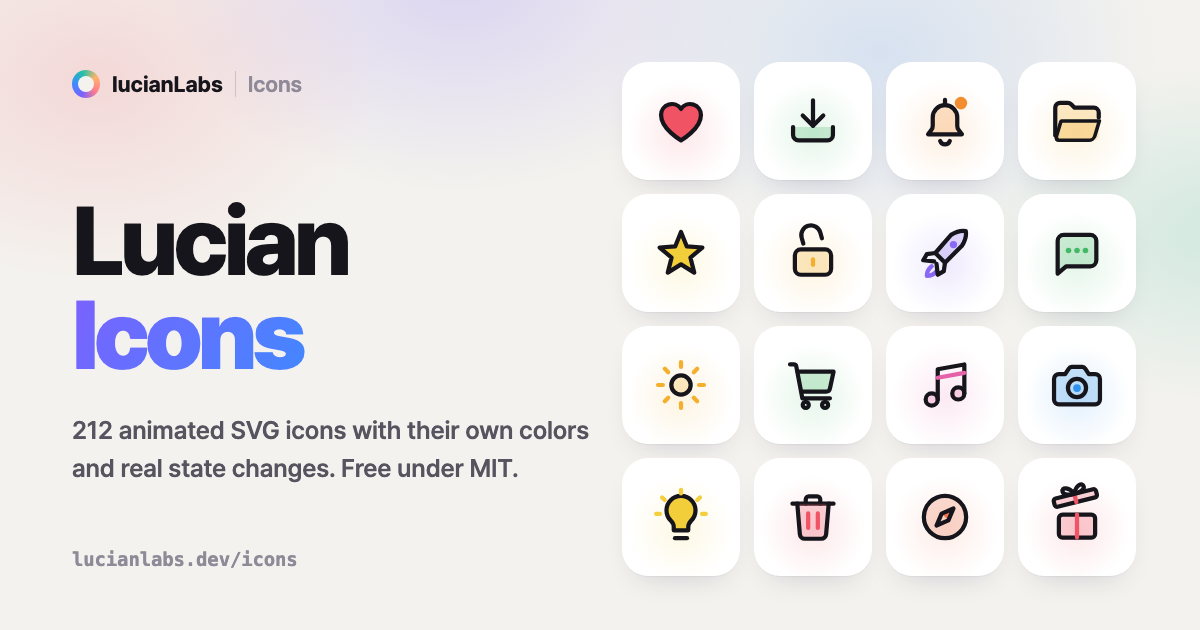
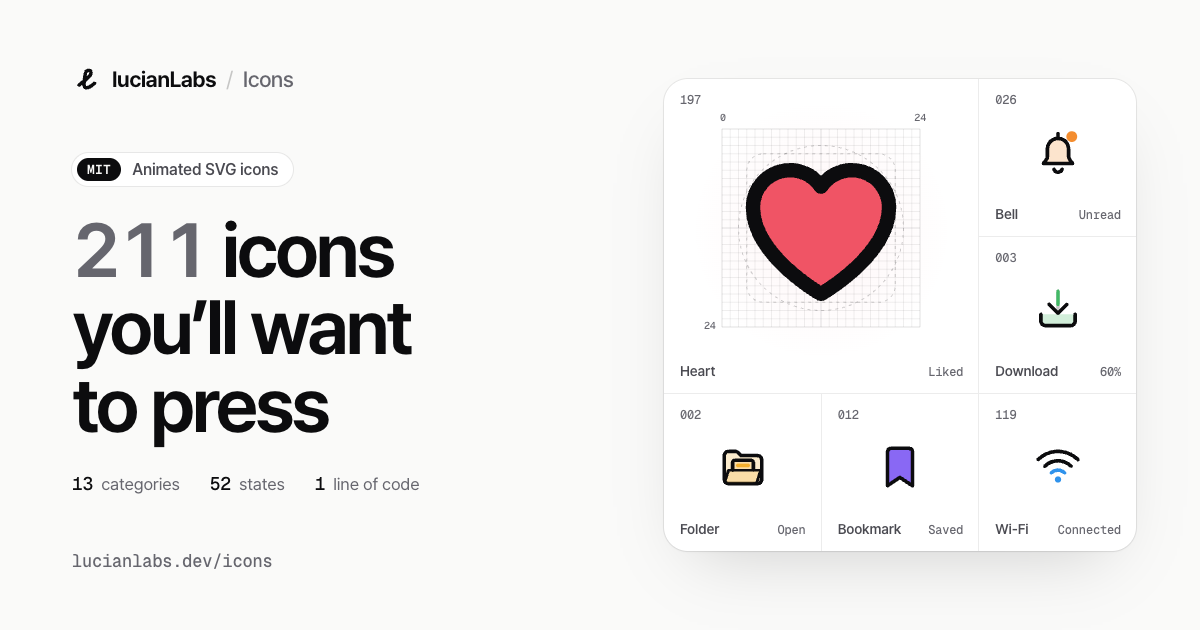
Redraw the share image in the new gallery style
og.png still showed the 2.0.0 look and said 212 icons. The new image
repeats the hero headline and counts beside a six-cell excerpt of the
specimen table, with the heart on the keyline grid. It carries no version
number, and both pages now point to og.png?v=<version> so link previews
refresh on each release. Icon code, runtime and the skill ZIP are unchanged.

diff --git a/web/index.html b/web/index.html
@@ -9,7 +9,7 @@
 <meta property="og:title" content="Lucian Icons">
 <meta property="og:description" content="{{ICON_COUNT}} original animated SVG icons with their own colors and real state changes. Free under MIT.">
 <meta property="og:type" content="website"><meta property="og:url" content="https://lucianlabs.dev/icons/">
-<meta property="og:image" content="https://lucianlabs.dev/icons/og.png"><meta name="twitter:card" content="summary_large_image">
+<meta property="og:image" content="https://lucianlabs.dev/icons/og.png?v={{VERSION}}"><meta name="twitter:card" content="summary_large_image">
 <link rel="icon" href="./favicon.svg" type="image/svg+xml">
 <link rel="preconnect" href="https://cdn.jsdelivr.net" crossorigin>
 <link rel="preconnect" href="https://fonts.googleapis.com">
@@ -53,7 +53,7 @@ r.setAttribute('lang',l);if(l==='en')r.classList.add('i18n-wait')})();
 
 <section class="g-hero" aria-labelledby="hero-t">
   <div class="g-hero-copy">
-    <p class="g-kick"><b>v{{VERSION}}</b><span data-i18n="heroKick">움직이는 SVG 아이콘 · MIT</span></p>
+    <p class="g-kick"><b>v{{VERSION}}</b><span class="g-free" data-i18n="heroFree">100% 무료</span><span data-i18n="heroKick">움직이는 SVG 아이콘 · MIT</span></p>
     <h1 class="g-hero-t" id="hero-t">눌러 보고 싶은<br>아이콘 {{ICON_COUNT}}개</h1>
     <p class="g-hero-s" data-i18n="intro">아이콘마다 어울리는 색과 진짜 상태 전환을 담았어요. 화면에 보이는 아이콘은 스스로 움직이고, 직접 눌러 볼 수도 있어요. 마음에 드는 아이콘은 코드 한 줄로 가져가세요.</p>
     <div class="g-install">

diff --git a/web/gallery.css b/web/gallery.css
@@ -95,6 +95,8 @@ a{color:inherit}
 .g-hero{max-width:var(--max);margin:0 auto;padding:36px var(--gut) 80px;display:grid;grid-template-columns:minmax(0,1fr) minmax(0,460px);gap:56px 88px;align-items:center}
 .g-kick{display:inline-flex;align-items:center;gap:10px;margin:0;padding:4px 12px 4px 4px;border-radius:999px;background:var(--surface);box-shadow:0 0 0 1px var(--line);font-size:13px;font-weight:550;color:var(--ink-2)}
 .g-kick b{padding:4px 8px;border-radius:999px;background:var(--ink);color:var(--page);font:600 11px/1 var(--mono);letter-spacing:.02em}
+.g-free{display:inline-flex;align-items:center;gap:10px;color:var(--ink);font-weight:680}
+.g-free::after{content:"";width:1px;height:12px;background:var(--line-2)}
 .g-hero-t{margin:26px 0 0;font-size:clamp(44px,5.4vw,78px);line-height:1.04;letter-spacing:-.052em;font-weight:640;word-break:keep-all;text-wrap:balance}
 .g-hero-t .g-num{color:var(--ink-3);font-variant-numeric:tabular-nums}
 .g-hero-s{max-width:480px;margin:22px 0 0;font-size:17px;line-height:1.62;color:var(--ink-2);word-break:keep-all;overflow-wrap:break-word}

diff --git a/web/i18n.js b/web/i18n.js
@@ -9,6 +9,7 @@ export const copy = {
     topNav: '도구',
     barLabel: '찾기와 보기',
     heroT: '눌러 보고 싶은<br>아이콘 {num}개',
+    heroFree: '100% 무료',
     heroKick: '움직이는 SVG 아이콘 · MIT',
     intro: '아이콘마다 어울리는 색과 진짜 상태 전환을 담았어요. 화면에 보이는 아이콘은 스스로 움직이고, 직접 눌러 볼 수도 있어요. 마음에 드는 아이콘은 코드 한 줄로 가져가세요.',
     specIcons: '아이콘',
@@ -124,6 +125,7 @@ export const copy = {
     topNav: 'Tools',
     barLabel: 'Find and view',
     heroT: '{num} icons<br>you’ll want to press',
+    heroFree: '100% free',
     heroKick: 'Animated SVG icons · MIT',
     intro: 'Each icon comes with its own color and real state changes. Icons in view move on their own, and you can press any of them yourself. Take the ones you like with a single line of code.',
     specIcons: 'Icons',

diff --git a/web/guide.html b/web/guide.html
@@ -8,7 +8,7 @@
 <link rel="canonical" href="https://lucianlabs.dev/icons/guide.html">
 <meta property="og:title" content="Lucian Icons API">
 <meta property="og:description" content="Install Lucian Icons v{{VERSION}} and wire {{ICON_COUNT}} animated icons to real application state.">
-<meta property="og:image" content="https://lucianlabs.dev/icons/og.png"><meta name="twitter:card" content="summary_large_image">
+<meta property="og:image" content="https://lucianlabs.dev/icons/og.png?v={{VERSION}}"><meta name="twitter:card" content="summary_large_image">
 <link rel="icon" href="./favicon.svg" type="image/svg+xml">
 <link rel="preconnect" href="https://cdn.jsdelivr.net" crossorigin>
 <link rel="stylesheet" href="https://cdn.jsdelivr.net/gh/orioncactus/pretendard@v1.3.9/dist/web/variable/pretendardvariable-dynamic-subset.min.css">

diff --git a/docs/design.md b/docs/design.md
@@ -8,6 +8,6 @@ Motion: parts are named with `data-part`. A state is a pose per part (rotate, tr
 
 States: only where they mirror real application state (on/off, unread, locked, progress, copied). Visual-only 1.x states such as pressed or raised became hover effects. 53 icons had states at 2.0.0; 52 after `eye` was removed in 2.0.4.
 
-Gallery (redesigned in 2.0.5): the page no longer borrows the uxui-prompt look (warm paper, glow tiles, gradient title, sliding pills). It is a quiet specimen sheet: an off-white page (`#FAFAF9`, `#09090A` in dark), one hairline table per category with five icons per row on desktop (four on tablets, three on phones), a floating glass toolbar, a 640-weight headline, and Geist Mono for numbers and code beside Pretendard. Its own motif is the 24-unit drawing grid with circle and square keylines, shown behind the large icon in the hero card, the inspector and the reels. The autoplay is unchanged from uxui-prompt on purpose: every icon at least half in view is demonstrated by a Mac-style cursor that glides in, triggers the effect, clicks through every state, leaves and repeats; hover changes nothing and keyboard focus takes over. The hero card cycles six featured icons (heart, bell, bulb, download, Wi-Fi, bookmark) with the same cursor. On screens 1180px and wider a click steps the icon and slides in an inspector beside the deck (the deck keeps five per row); on narrower screens a click opens the reel, where the icon grows out of its cell onto the grid. The inspector moves into a sheet over the reel and on small screens. The API guide shares the header, buttons and code blocks.
+Gallery (redesigned in 2.0.5): the page no longer borrows the uxui-prompt look (warm paper, glow tiles, gradient title, sliding pills). It is a quiet specimen sheet: an off-white page (`#FAFAF9`, `#09090A` in dark), one hairline table per category with five icons per row on desktop (four on tablets, three on phones), a floating glass toolbar, a 640-weight headline, and Geist Mono for numbers and code beside Pretendard. Its own motif is the 24-unit drawing grid with circle and square keylines, shown behind the large icon in the hero card, the inspector and the reels. The autoplay is unchanged from uxui-prompt on purpose: every icon at least half in view is demonstrated by a Mac-style cursor that glides in, triggers the effect, clicks through every state, leaves and repeats; hover changes nothing and keyboard focus takes over. The hero card cycles six featured icons (heart, bell, bulb, download, Wi-Fi, bookmark) with the same cursor. On screens 1180px and wider a click steps the icon and slides in an inspector beside the deck (the deck keeps five per row); on narrower screens a click opens the reel, where the icon grows out of its cell onto the grid. The inspector moves into a sheet over the reel and on small screens. The API guide shares the header, buttons and code blocks. The share image `og.png` (1200x630) repeats the hero headline and counts beside a six-cell excerpt of the specimen table, with the heart on the keyline grid; it has no version number, so redraw it only when the icon, category or state counts change. Its URL carries `?v=<version>` so link previews pick up a new image on each release.
 
 Distribution: `all.js`, per-icon ES modules with a shared runtime, JSON API, static SVG and standalone HTML downloads, source and skill ZIPs, and the lucian-icons agent skill. Public module paths send `Access-Control-Allow-Origin: *` so the one-line script works from any site.

diff --git a/docs/verification.md b/docs/verification.md
@@ -7,6 +7,7 @@ Product path `/icons/`.
 Date: 2026-10-18 (local review on branch `gallery-keys`); released as 2.0.5 on 2026-10-19 together with the calmer heart.
 
 - Before release (2026-10-19, after the version bump and archiving the 2.0.4 ZIPs): `npm run build` 884 files, `npm test` 14 of 14, `tests/browser.mjs` 17 of 17 in Chrome.
+- Share image redrawn after the first 2.0.5 deployment: rendered without page errors from the real modules; `npm test` 14 of 14, `tests/browser.mjs` 17 of 17, skill ZIP byte-identical to the deployed one.
 - `npm run build` and `npm test`: 14 of 14 passed.
 - `tests/browser.mjs` rewritten for the new gallery, 17 of 17 passed in Chrome and 17 of 17 in Playwright WebKit 26.6 (Safari's engine; clipboard reads stubbed there because WebKit automation cannot grant clipboard access). Checks: 211 icons in 13 category tables, five per row, inspector closed until a click; visible icons demonstrate themselves with the cursor; the hero card runs the cursor demo, a featured pick switches the icon and a click steps its state; hovering a running icon changes nothing; category, search, `/` and empty state; language, tone and theme persist; at 1360px a click steps the icon and slides in the docked inspector, still five per row, the inspector and the icon stay in sync both ways, close button and Escape close it; reel deep link, rail copy, SVG and code, the inspector sheet over the reel with states, code tabs, copy and downloads, first Escape closes only the sheet; at 900px a click opens the reel and the big icon steps or replays; the reel follows the filter, Escape and Back land on the last icon seen (also in WebKit after the scroll restoration fix); arrow keys cross categories and keep the column; runtime interruption; reduced motion; no horizontal overflow at 320, 390, 768 and 1440px with the large icon clear of the text, rail and HUD; guide demos.
 - No horizontal overflow on the gallery or the guide at 320, 360, 390, 414, 600, 768, 900, 1024, 1180, 1280 and 1440px.

diff --git a/docs/progress.md b/docs/progress.md
@@ -54,3 +54,5 @@ Coffee, fifth pass: the user wanted steam that really behaves like smoke. The re
 Coffee, sixth pass: the user asked for fewer wisps and a simple fade, like real smoke. The extra steam pair is gone; the two wisps lift a little while fading out, move back while invisible, and fade in where they started.
 
 Heart, also in 2.0.5: the user found the heart too strong and the rays that burst out on the like pulse out of place. The burst part is gone, the like transition dips to 0.93 and rises to 1.05 instead of 0.82 and 1.14, the fill grows from half size instead of from nothing, and the hover heartbeat peaks at 1.06 and 1.035 instead of 1.1 and 1.06. Checked with frozen-frame strips against the live 2.0.4 heart. The star still has the same burst; it was not changed.
+
+Share image, also in 2.0.5: after the redesign went live, `og.png` still showed the 2.0.0 look and said 212 icons. It was redrawn in the new style (hero headline and counts, a six-cell specimen table excerpt with the heart on the keyline grid, Bell, Download, Folder, Bookmark and Wi-Fi in a state each), rendered from the real icon modules in Chrome at 1200x630. The version badge was left out so the image does not go stale on the next release, and both pages now point to `og.png?v=<version>`.

diff --git a/docs/deployment.md b/docs/deployment.md
@@ -36,6 +36,7 @@ The existing root deployment, domain alias, `/uxui-prompt/`, its introducing pag
 ## Release 2.0.5 notes
 
 - New gallery and guide design (see design.md) and a calmer heart (no burst, smaller pulse). Catalog, ids, states, runtime API, exports, deep links and storage keys are unchanged. Same routing and headers. The 2.0.4 skill and source ZIPs were archived in `web/downloads/` (bytes and SHA-256 match the 2.0.4 production manifest).
+- The share image was redrawn the same day, after 2.0.5 first went live (commit `6894d2e`), and both pages now point to `og.png?v=2.0.5`. The 2.0.5 source ZIP was rebuilt with it; only `web/og.png`, the two pages and docs differ. Icon code, runtime and the skill ZIP are unchanged.
 - After pushing `main`, verify catalog 2.0.5 with 211 icons, every manifest file, CORS, archive URLs, `tests/browser.mjs` against production (17 checks), and that the root site and `/uxui-prompt/` are unchanged.
 
 ## Release 2.0.4 notes
